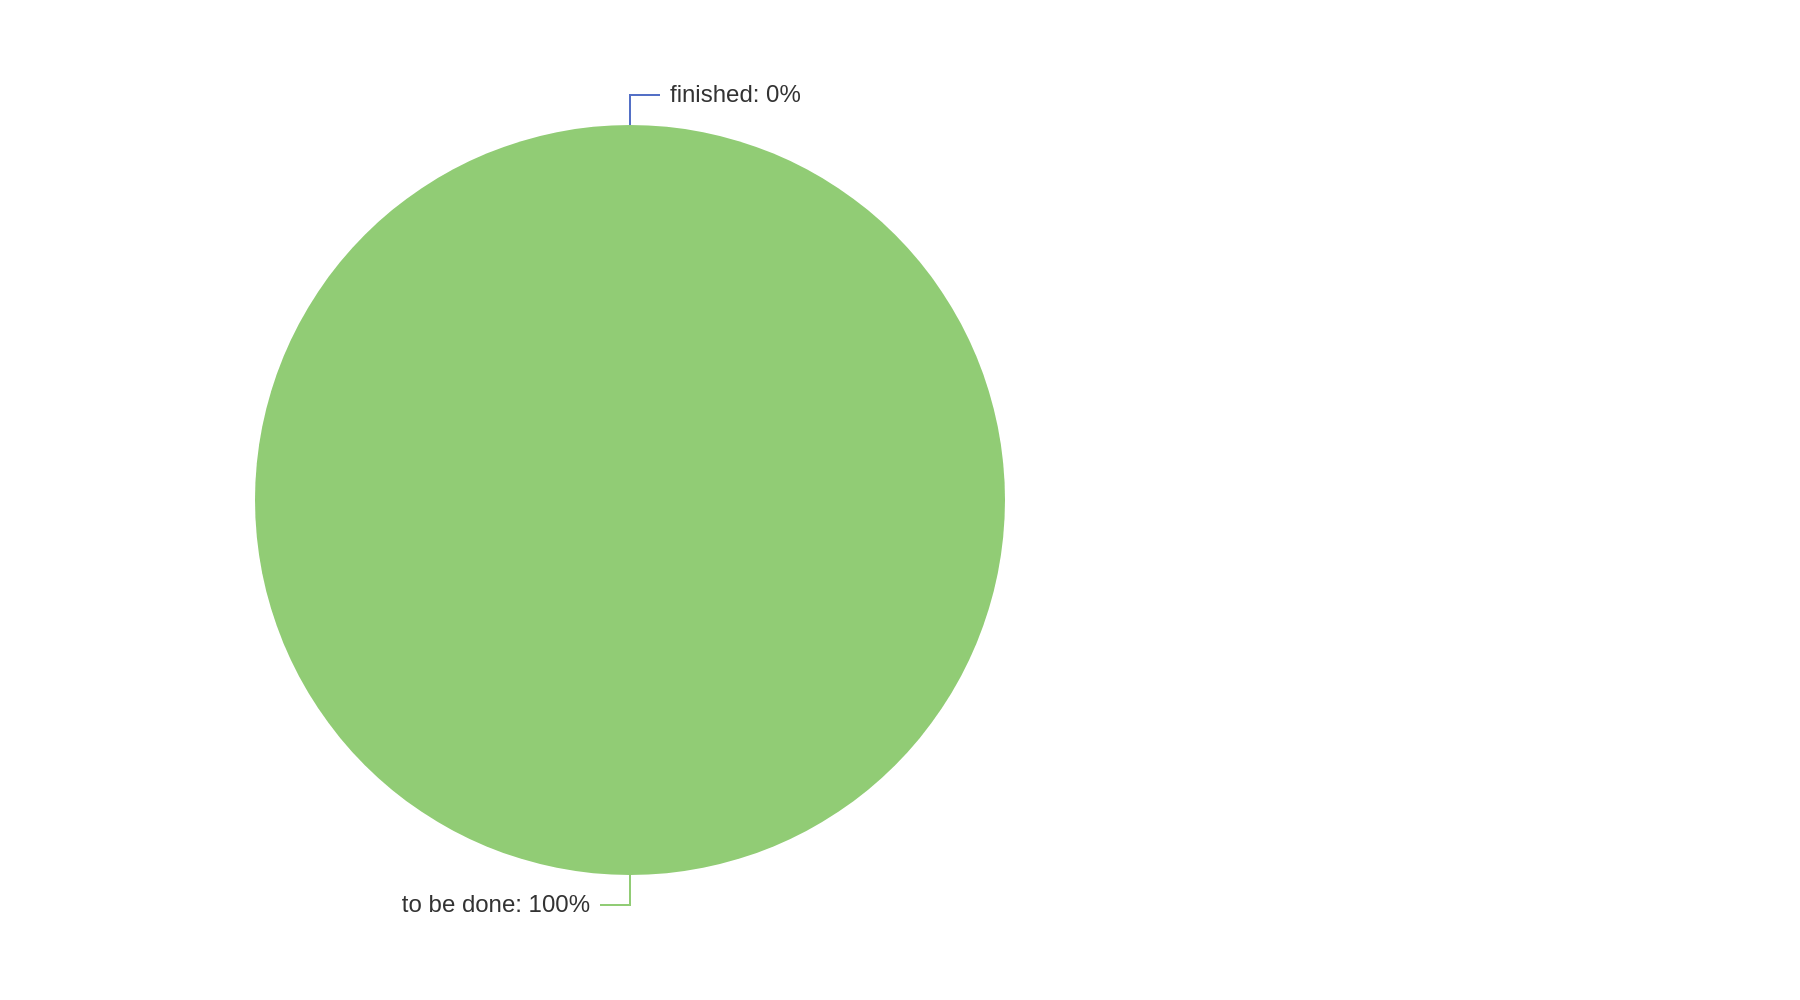
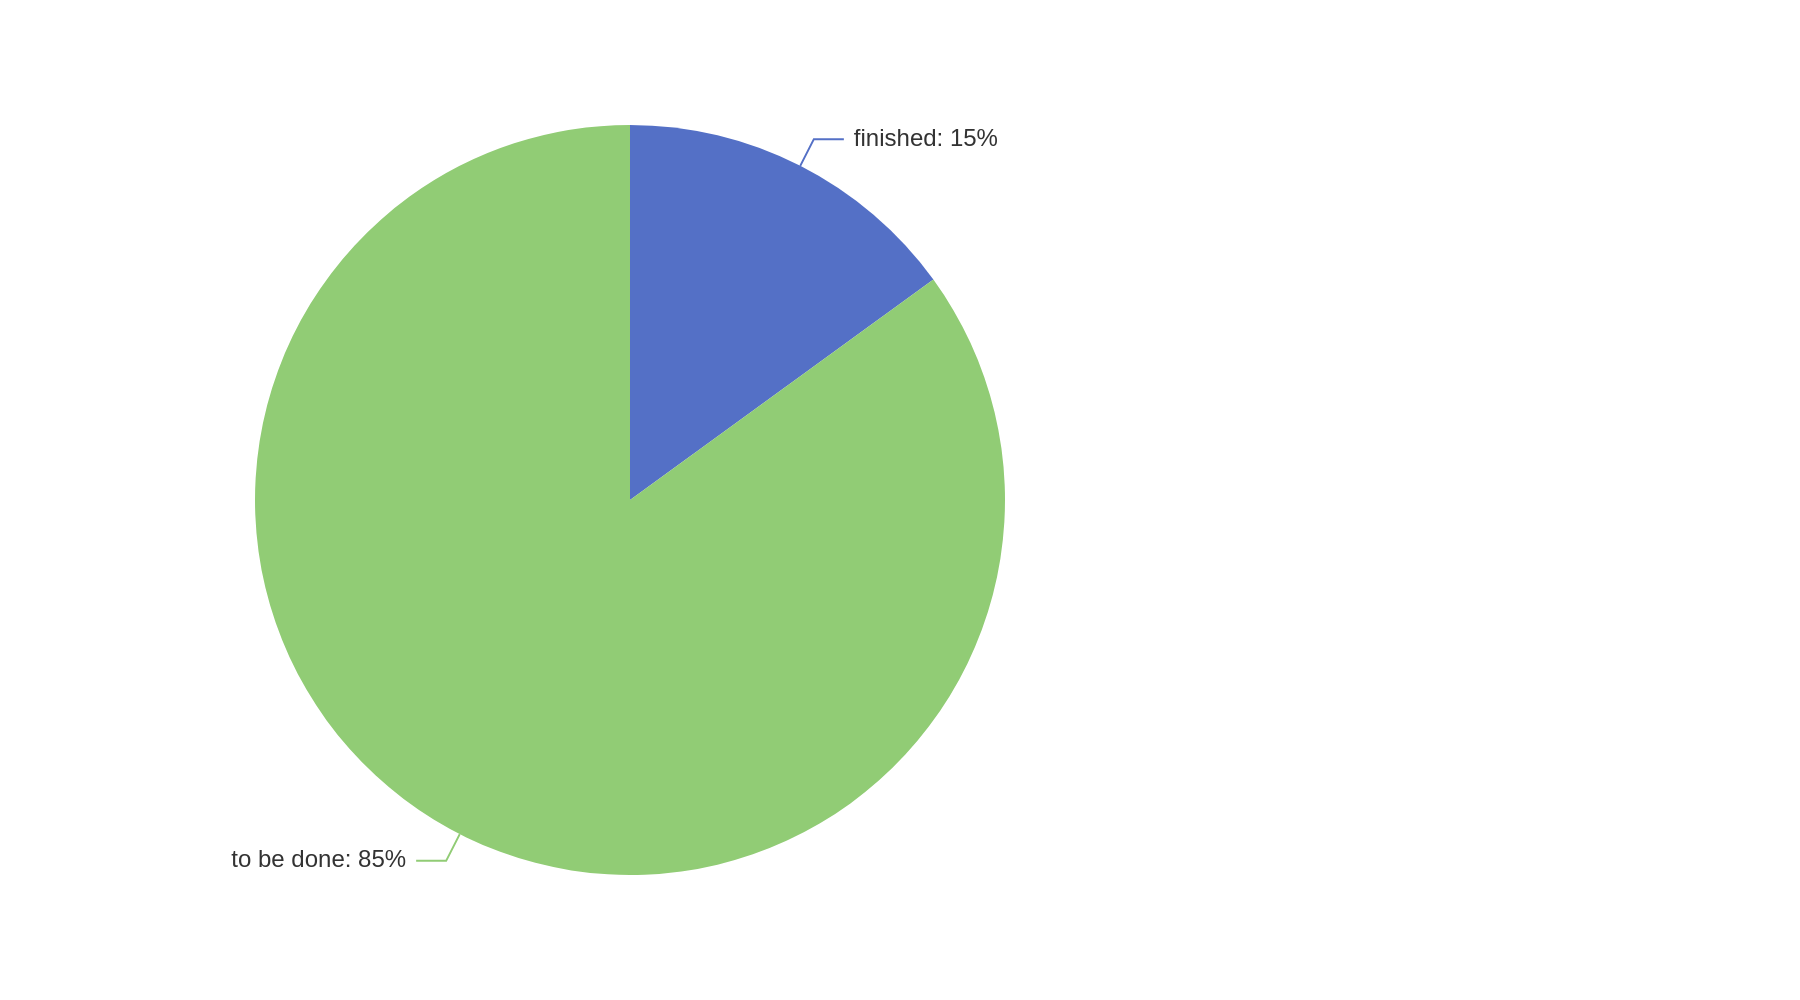
update 9.26

diff --git a/main.py b/main.py
@@ -1,6 +1,7 @@
 from bilibili.import_func import import_video
 from readme.markdown import insert_lines_markdown
 from bilibili.convert_info import info_text, add_record
+import json
 import asyncio
 
 BASIC_LEARNING_MD = "./learnings/basic.md"
@@ -9,10 +10,15 @@ README_MD = "./README.md"
 
 
 if __name__ == "__main__":
+    # Load learning record data
+    with open("./data.json", "r") as f:
+        data = json.load(f)
+
     loop = asyncio.get_event_loop()
-    result = loop.run_until_complete(add_record("BV1wy4y1D7JT", [BASIC_MD, BASIC_LEARNING_MD], "React", True, range(47), "REACT"))
-    result = loop.run_until_complete(add_record("BV1Xy4y1v7S2", [README_MD, BASIC_LEARNING_MD], "TypeScript", True, range(12), "TYPESCRIPT"))
-    result = loop.run_until_complete(add_record("BV1AP411s7D7", [README_MD, BASIC_LEARNING_MD], "SSM", True, [], "SSM"))
-    result = loop.run_until_complete(add_record("BV1np4y1C7Yf", [README_MD, BASIC_LEARNING_MD], "Gulimall", True, [], "GULIMALL"))
-    result = loop.run_until_complete(add_record("BV1Np4y1z7BU", [README_MD, BASIC_LEARNING_MD], "Design Pattern", True, [], "DESIGNPATTERN"))
-    
+    for idx, (label, obj) in enumerate(data.items()):
+        title = obj["title"]
+        bvid = obj["bvid"]
+        paged = obj["paged"]
+        finished = range(obj["finished"])
+        basic_md = BASIC_MD if idx == 0 else README_MD
+        loop.run_until_complete(add_record(bvid, [basic_md, BASIC_LEARNING_MD], title, paged, finished, label))

diff --git a/learnings/Design Pattern.md b/learnings/Design Pattern.md
@@ -8,35 +8,35 @@ This is a leanring board of me.
 
 ### [Design Pattern](https://www.bilibili.com/video/BV1Np4y1z7BU)
 - Finished:
-	- 0/154 pages
-	- 0/1237 minutes
+	- 25/154 pages
+	- 180/1237 minutes
 	- <img src="https://github.com/Yin-FR/Learning/blob/main/assets/finish-percentage-Design%20Pattern.png?raw=true" alt="" />
 - Deatil:
-	- [ ] [1.设计模式-课程介绍](https://www.bilibili.com/video/BV1Np4y1z7BU?p=1) 0:04:37
-	- [ ] [2.设计模式-产生背景](https://www.bilibili.com/video/BV1Np4y1z7BU?p=2) 0:03:00
-	- [ ] [3.设计模式-概念&学习的必须性](https://www.bilibili.com/video/BV1Np4y1z7BU?p=3) 0:03:59
-	- [ ] [4.设计模式-分类](https://www.bilibili.com/video/BV1Np4y1z7BU?p=4) 0:03:06
-	- [ ] [5.设计模式-类图](https://www.bilibili.com/video/BV1Np4y1z7BU?p=5) 0:03:07
-	- [ ] [6.设计模式-类图-类和接口的表示方式](https://www.bilibili.com/video/BV1Np4y1z7BU?p=6) 0:05:45
-	- [ ] [7.设计模式-类图-关联关系表示方式](https://www.bilibili.com/video/BV1Np4y1z7BU?p=7) 0:04:54
-	- [ ] [8.设计模式-类图-聚合关系和组合关系的表示方式](https://www.bilibili.com/video/BV1Np4y1z7BU?p=8) 0:04:45
-	- [ ] [9.设计模式-类图-依赖、继承、实现关系表示方式](https://www.bilibili.com/video/BV1Np4y1z7BU?p=9) 0:07:38
-	- [ ] [10.设计模式-设计原则(开闭原则概述)](https://www.bilibili.com/video/BV1Np4y1z7BU?p=10) 0:06:57
-	- [ ] [11.设计模式-设计原则(开闭原则案例实现)](https://www.bilibili.com/video/BV1Np4y1z7BU?p=11) 0:08:08
-	- [ ] [12.设计模式-设计原则(里氏代换原则概述和案例)](https://www.bilibili.com/video/BV1Np4y1z7BU?p=12) 0:15:59
-	- [ ] [13.设计模式-设计原则(里氏代换原则案例改进)](https://www.bilibili.com/video/BV1Np4y1z7BU?p=13) 0:09:06
-	- [ ] [14.设计模式-设计原则(依赖倒转原则概述和案例)](https://www.bilibili.com/video/BV1Np4y1z7BU?p=14) 0:16:02
-	- [ ] [15.设计模式-设计原则(依赖倒转原则案例改进)](https://www.bilibili.com/video/BV1Np4y1z7BU?p=15) 0:10:37
-	- [ ] [16.设计模式-设计原则(接口隔离原则概述和案例)](https://www.bilibili.com/video/BV1Np4y1z7BU?p=16) 0:10:19
-	- [ ] [17.设计模式-设计原则(接口隔离原则案例改进)](https://www.bilibili.com/video/BV1Np4y1z7BU?p=17) 0:07:19
-	- [ ] [18.设计模式-设计原则(迪米特法则概述)](https://www.bilibili.com/video/BV1Np4y1z7BU?p=18) 0:05:08
-	- [ ] [19.设计模式-设计原则(迪米特法则案例)](https://www.bilibili.com/video/BV1Np4y1z7BU?p=19) 0:12:22
-	- [ ] [20.设计模式-设计原则(合成复用原则概述)](https://www.bilibili.com/video/BV1Np4y1z7BU?p=20) 0:05:26
-	- [ ] [21.设计模式-设计原则(合成复用原则案例)](https://www.bilibili.com/video/BV1Np4y1z7BU?p=21) 0:05:16
-	- [ ] [22.设计模式-创建型模式-单例设计模式概述](https://www.bilibili.com/video/BV1Np4y1z7BU?p=22) 0:02:49
-	- [ ] [23.设计模式-创建型模式-单例设计模式-饿汉式-方式1](https://www.bilibili.com/video/BV1Np4y1z7BU?p=23) 0:07:26
-	- [ ] [24.设计模式-创建型模式-单例设计模式-饿汉式-方式2](https://www.bilibili.com/video/BV1Np4y1z7BU?p=24) 0:06:21
-	- [ ] [25.设计模式-创建型模式-单例设计模式-懒汉式](https://www.bilibili.com/video/BV1Np4y1z7BU?p=25) 0:10:22
+	- [x] [1.设计模式-课程介绍](https://www.bilibili.com/video/BV1Np4y1z7BU?p=1) 0:04:37
+	- [x] [2.设计模式-产生背景](https://www.bilibili.com/video/BV1Np4y1z7BU?p=2) 0:03:00
+	- [x] [3.设计模式-概念&学习的必须性](https://www.bilibili.com/video/BV1Np4y1z7BU?p=3) 0:03:59
+	- [x] [4.设计模式-分类](https://www.bilibili.com/video/BV1Np4y1z7BU?p=4) 0:03:06
+	- [x] [5.设计模式-类图](https://www.bilibili.com/video/BV1Np4y1z7BU?p=5) 0:03:07
+	- [x] [6.设计模式-类图-类和接口的表示方式](https://www.bilibili.com/video/BV1Np4y1z7BU?p=6) 0:05:45
+	- [x] [7.设计模式-类图-关联关系表示方式](https://www.bilibili.com/video/BV1Np4y1z7BU?p=7) 0:04:54
+	- [x] [8.设计模式-类图-聚合关系和组合关系的表示方式](https://www.bilibili.com/video/BV1Np4y1z7BU?p=8) 0:04:45
+	- [x] [9.设计模式-类图-依赖、继承、实现关系表示方式](https://www.bilibili.com/video/BV1Np4y1z7BU?p=9) 0:07:38
+	- [x] [10.设计模式-设计原则(开闭原则概述)](https://www.bilibili.com/video/BV1Np4y1z7BU?p=10) 0:06:57
+	- [x] [11.设计模式-设计原则(开闭原则案例实现)](https://www.bilibili.com/video/BV1Np4y1z7BU?p=11) 0:08:08
+	- [x] [12.设计模式-设计原则(里氏代换原则概述和案例)](https://www.bilibili.com/video/BV1Np4y1z7BU?p=12) 0:15:59
+	- [x] [13.设计模式-设计原则(里氏代换原则案例改进)](https://www.bilibili.com/video/BV1Np4y1z7BU?p=13) 0:09:06
+	- [x] [14.设计模式-设计原则(依赖倒转原则概述和案例)](https://www.bilibili.com/video/BV1Np4y1z7BU?p=14) 0:16:02
+	- [x] [15.设计模式-设计原则(依赖倒转原则案例改进)](https://www.bilibili.com/video/BV1Np4y1z7BU?p=15) 0:10:37
+	- [x] [16.设计模式-设计原则(接口隔离原则概述和案例)](https://www.bilibili.com/video/BV1Np4y1z7BU?p=16) 0:10:19
+	- [x] [17.设计模式-设计原则(接口隔离原则案例改进)](https://www.bilibili.com/video/BV1Np4y1z7BU?p=17) 0:07:19
+	- [x] [18.设计模式-设计原则(迪米特法则概述)](https://www.bilibili.com/video/BV1Np4y1z7BU?p=18) 0:05:08
+	- [x] [19.设计模式-设计原则(迪米特法则案例)](https://www.bilibili.com/video/BV1Np4y1z7BU?p=19) 0:12:22
+	- [x] [20.设计模式-设计原则(合成复用原则概述)](https://www.bilibili.com/video/BV1Np4y1z7BU?p=20) 0:05:26
+	- [x] [21.设计模式-设计原则(合成复用原则案例)](https://www.bilibili.com/video/BV1Np4y1z7BU?p=21) 0:05:16
+	- [x] [22.设计模式-创建型模式-单例设计模式概述](https://www.bilibili.com/video/BV1Np4y1z7BU?p=22) 0:02:49
+	- [x] [23.设计模式-创建型模式-单例设计模式-饿汉式-方式1](https://www.bilibili.com/video/BV1Np4y1z7BU?p=23) 0:07:26
+	- [x] [24.设计模式-创建型模式-单例设计模式-饿汉式-方式2](https://www.bilibili.com/video/BV1Np4y1z7BU?p=24) 0:06:21
+	- [x] [25.设计模式-创建型模式-单例设计模式-懒汉式](https://www.bilibili.com/video/BV1Np4y1z7BU?p=25) 0:10:22
 	- [ ] [26.设计模式-创建型模式-单例设计模式-双重检查方式](https://www.bilibili.com/video/BV1Np4y1z7BU?p=26) 0:08:52
 	- [ ] [27.设计模式-创建型模式-单例设计模式-静态内部类方式](https://www.bilibili.com/video/BV1Np4y1z7BU?p=27) 0:06:54
 	- [ ] [28.设计模式-创建者模式-单例设计模式-枚举方式](https://www.bilibili.com/video/BV1Np4y1z7BU?p=28) 0:02:58

diff --git a/README.md b/README.md
@@ -15,13 +15,13 @@ This is a leanring board of me.
 
 
 ### 1.2 Back
-#### 1.2.1 SSM(Soring + Spring MVC + MyBatis)
+#### 1.2.1 SSM(Spring + Spring MVC + MyBatis)
 <!-- SSM -->
 - [ ] [SSM](https://github.com/Yin-FR/Learning/blob/main/learnings/SSM.md) 0/2053 minutes
 
 #### 1.2.2 Design Pattern
 <!-- DESIGNPATTERN -->
-- [ ] [Design Pattern](https://github.com/Yin-FR/Learning/blob/main/learnings/Design%20Pattern.md) 0/1237 minutes
+- [ ] [Design Pattern](https://github.com/Yin-FR/Learning/blob/main/learnings/Design%20Pattern.md) 180/1237 minutes
 
 
 ### 1.3 Project

diff --git a/basic.md b/basic.md
@@ -13,7 +13,7 @@ This is a leanring board of me.
 
 
 ### 1.2 Back
-#### 1.2.1 SSM(Soring + Spring MVC + MyBatis)
+#### 1.2.1 SSM(Spring + Spring MVC + MyBatis)
 <!-- SSM -->
 
 #### 1.2.2 Design Pattern
